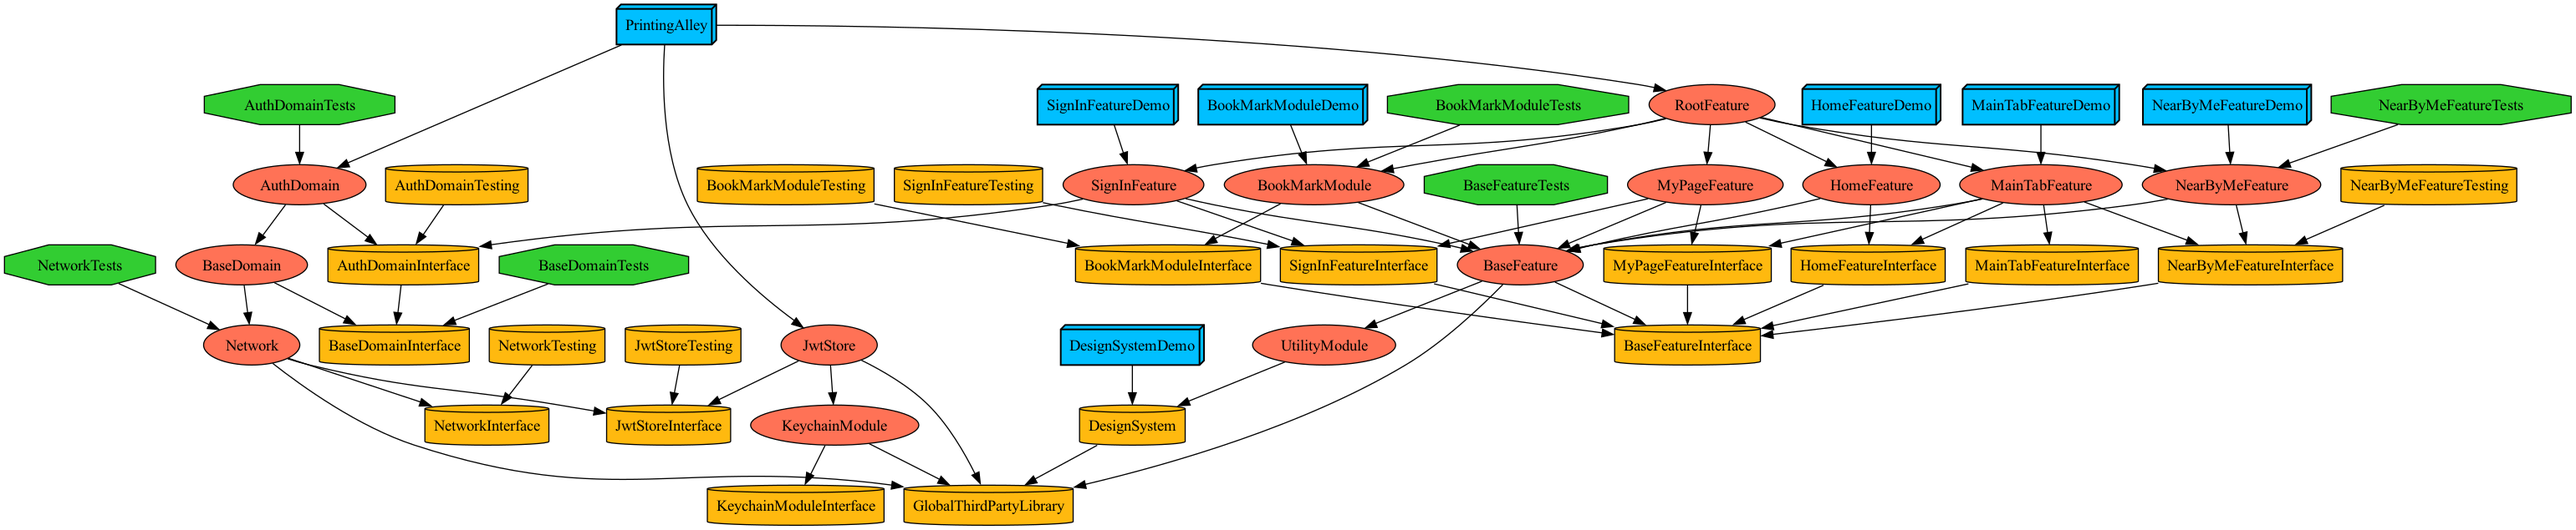
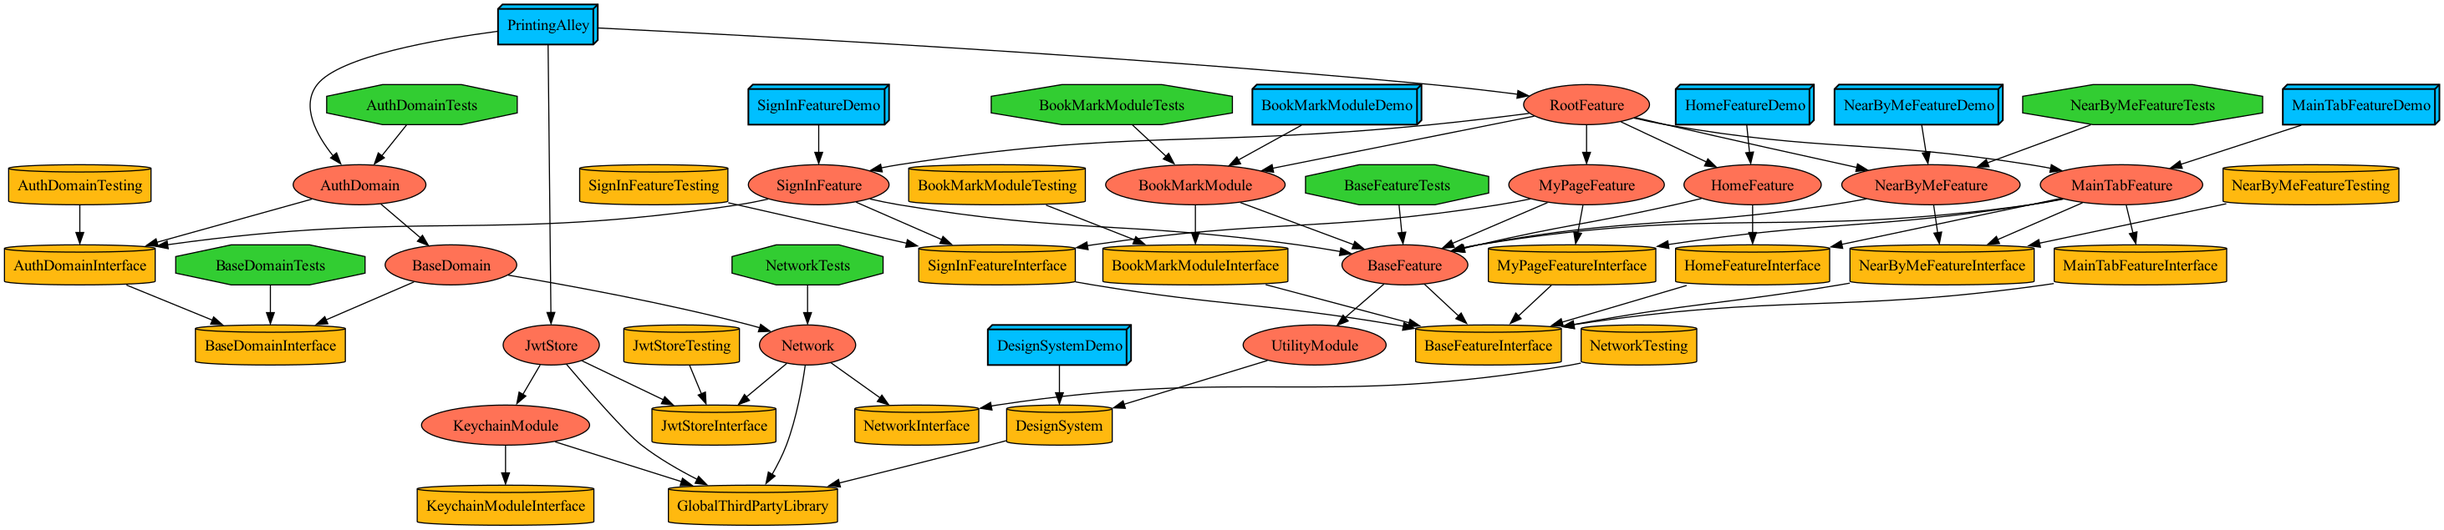
:toolbox: :: 북마크 도메인 생성

diff --git a/Projects/Domain/BookMarkDomain/Project.swift b/Projects/Domain/BookMarkDomain/Project.swift
@@ -1,0 +1,13 @@
+import DependencyPlugin
+import ProjectDescription
+import ProjectDescriptionHelpers
+
+let project = Project.module(
+    name: ModulePaths.Domain.BookMarkDomain.rawValue,
+    targets: [
+        .interface(module: .domain(.BookMarkDomain)),
+        .implements(module: .domain(.BookMarkDomain), dependencies: [
+            .domain(target: .BookMarkDomain, type: .interface)
+        ])
+    ]
+)

diff --git a/Plugin/DependencyPlugin/ProjectDescriptionHelpers/ModulePaths.swift b/Plugin/DependencyPlugin/ProjectDescriptionHelpers/ModulePaths.swift
@@ -37,6 +37,7 @@ public extension ModulePaths {
 
 public extension ModulePaths {
     enum Domain: String, MicroTargetPathConvertable {
+        case BookMarkDomain
         case AuthDomain
         case BaseDomain
     }

diff --git a/Projects/Domain/BookMarkDomain/Interface/Interface.swift b/Projects/Domain/BookMarkDomain/Interface/Interface.swift
@@ -1,0 +1,1 @@
+// This is for Tuist

diff --git a/Projects/Domain/BookMarkDomain/Sources/Sources.swift b/Projects/Domain/BookMarkDomain/Sources/Sources.swift
@@ -1,0 +1,1 @@
+// This is for Tuist
